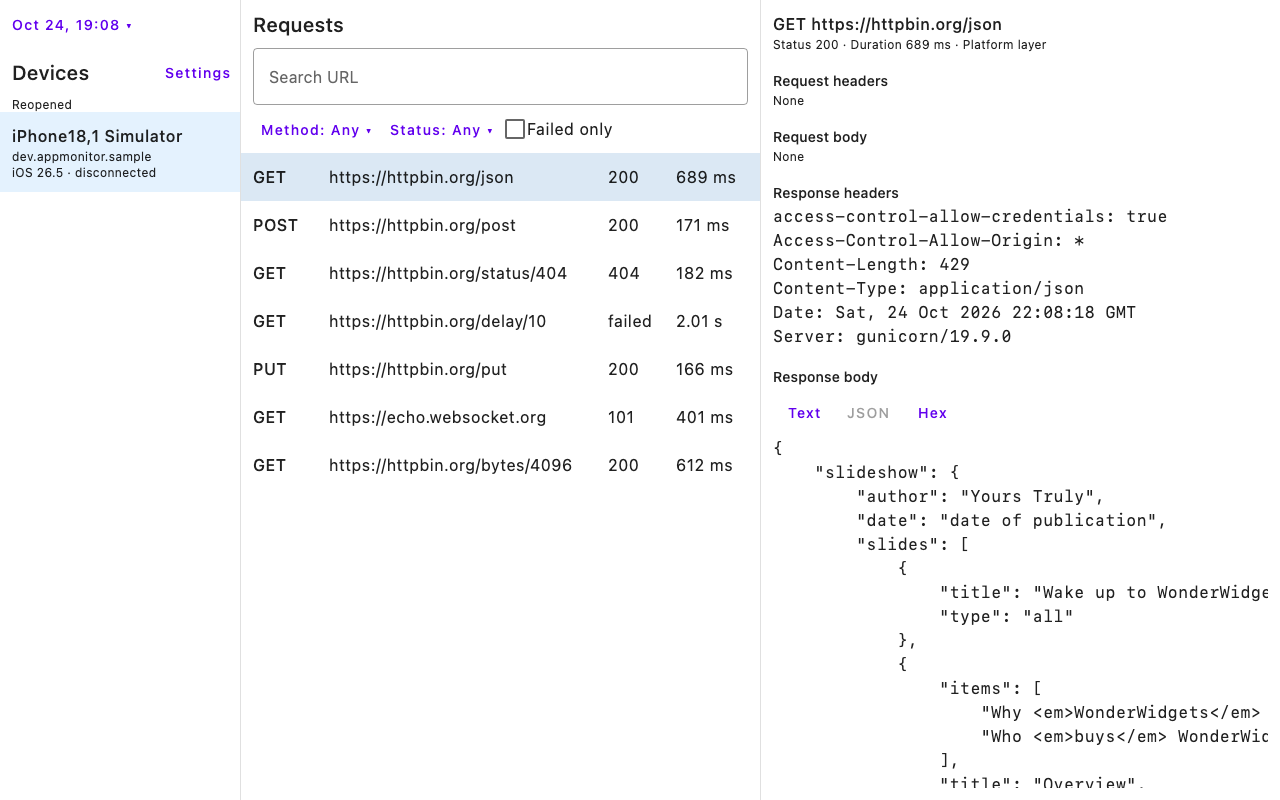
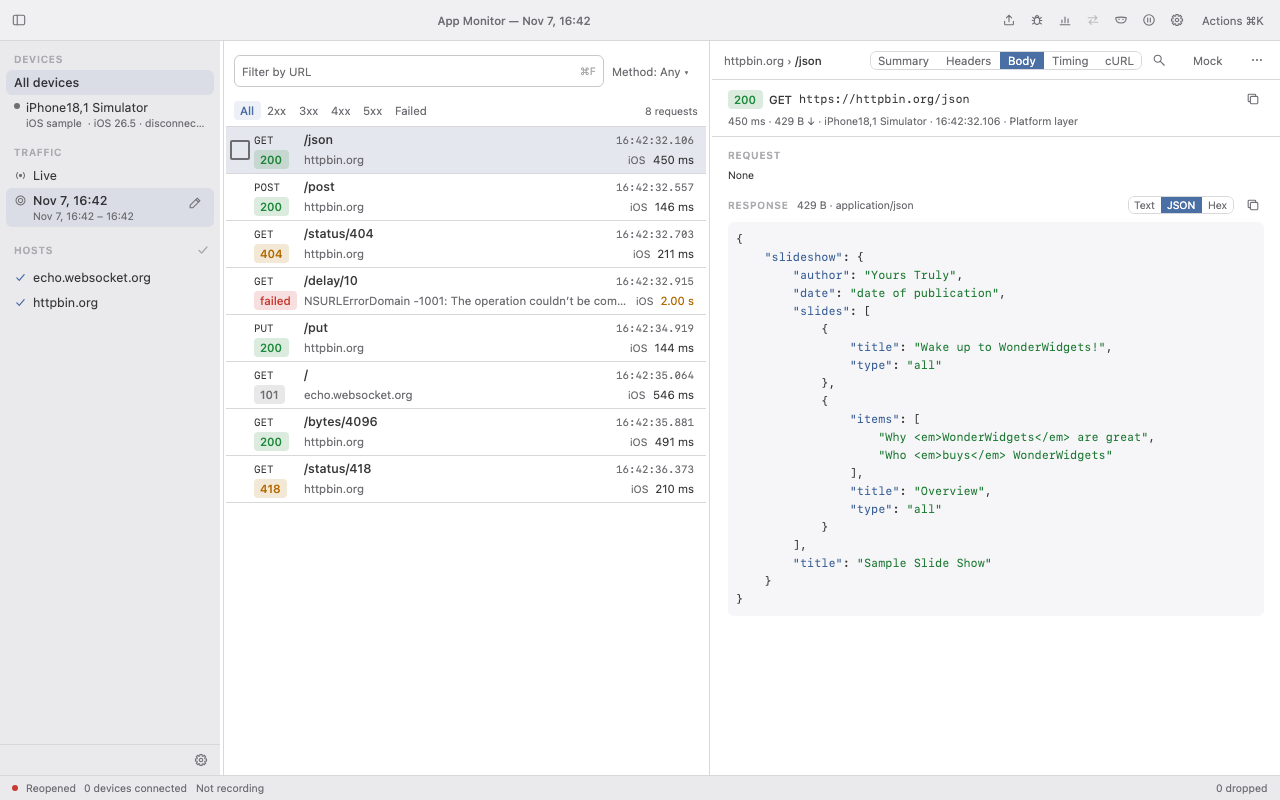
test: live screenshots pick their rows in the request list (#403)
The sidebar lists hosts and runs (ADR-0205), so the first node with a host's text was the sidebar's host, and a click hid it. Rows are now picked inside the request list, the recording by its run tag. Screenshots regenerated from the iOS sample on a simulator; the README shows them; H8.6 closes.

diff --git a/desktop/app/src/test/kotlin/appmonitor/desktop/app/LiveDeviceScreenshots.kt b/desktop/app/src/test/kotlin/appmonitor/desktop/app/LiveDeviceScreenshots.kt
@@ -4,9 +4,14 @@ import androidx.compose.runtime.collectAsState
 import androidx.compose.runtime.getValue
 import androidx.compose.runtime.remember
 import androidx.compose.ui.graphics.toAwtImage
+import androidx.compose.ui.semantics.SemanticsProperties
 import androidx.compose.ui.test.ComposeUiTest
 import androidx.compose.ui.test.ExperimentalTestApi
+import androidx.compose.ui.test.SemanticsMatcher
 import androidx.compose.ui.test.captureToImage
+import androidx.compose.ui.test.hasAnyAncestor
+import androidx.compose.ui.test.hasTestTag
+import androidx.compose.ui.test.hasText
 import androidx.compose.ui.test.onAllNodesWithText
 import androidx.compose.ui.test.onFirst
 import androidx.compose.ui.test.onNodeWithTag
@@ -18,6 +23,8 @@ import appmonitor.desktop.app.store.ApprovalStore
 import appmonitor.desktop.app.store.TrafficStore
 import appmonitor.desktop.app.ui.AppMonitorApp
 import appmonitor.desktop.feature.traffic.RECORD
+import appmonitor.desktop.feature.traffic.REQUEST_LIST
+import appmonitor.desktop.feature.traffic.RUN
 import appmonitor.desktop.server.AppMonitorServer
 import appmonitor.desktop.server.ServerConfig
 import appmonitor.desktop.storage.ExchangeFilter
@@ -106,9 +113,9 @@ class LiveDeviceScreenshots {
             runDesktopComposeUiTest(width = 1280, height = 800) {
                 setContent { AppMonitorApp(storage, "Reopened", appearance = TestAppearance) }
                 println("liveScreenshots: store reopened, opening the recording")
-                onAllNodesWithText(" – ", substring = true).onFirst().performClick()
+                onAllNodes(tagStartsWith(RUN)).onFirst().performClick()
                 waitFor("/json")
-                onAllNodesWithText("/json", substring = true).onFirst().performClick()
+                inList("/json").performClick()
                 waitFor("\"slideshow\"")
                 screenshot("$name-reopen.png")
             }
@@ -118,13 +125,23 @@ class LiveDeviceScreenshots {
     }
 
     private fun ComposeUiTest.showJsonAndFrames() {
-        onAllNodesWithText("/json", substring = true).onFirst().performClick()
+        inList("/json").performClick()
         waitFor("\"slideshow\"")
         screenshot("$name-traffic.png")
-        onAllNodesWithText("echo.websocket.org", substring = true).onFirst().performClick()
+        inList("echo.websocket.org").performClick()
         waitFor("WebSocket frames")
         screenshot("$name-frames.png")
     }
+
+    // The sidebar lists hosts and runs too (ADR-0205): a row is picked inside the request list.
+    private fun ComposeUiTest.inList(text: String) =
+        onAllNodes(hasText(text, substring = true) and hasAnyAncestor(hasTestTag(REQUEST_LIST))).onFirst()
+
+    private fun tagStartsWith(prefix: String) =
+        SemanticsMatcher("testTag starts with $prefix") {
+            SemanticsProperties.TestTag in it.config &&
+                it.config[SemanticsProperties.TestTag].startsWith(prefix)
+        }
 
     private fun ComposeUiTest.waitFor(text: String) =
         waitUntil(timeoutMillis = timeoutMs) { onAllNodesWithText(text, substring = true).fetchSemanticsNodes().isNotEmpty() }

diff --git a/docs/plans/0018-dense-traffic-window.md b/docs/plans/0018-dense-traffic-window.md
@@ -218,7 +218,8 @@ updates the SDD it changes in its own PR (ADR-0094). The `Hold` before M10 stays
   Accept: `./gradlew :desktop:app:test`, with a test that the macOS properties are set only on
   macOS; `make check`. The loop cannot read a real window (DEBT-0124): the bar, its drag and
   its double click are for the owner's look in H8.6.
-- [!] **H8.6 The window in use.** The owner's task, run with the owner and not by `/next`.
+- [x] **H8.6 The window in use.** (`test/live-screenshots-after-the-sidebar`; the owner's third look,
+  2026-11-07: "ficou melhor". Simulator screenshots only: the emulator was closed.) The owner's task, run with the owner and not by `/next`.
   The owner's first look (2026-11-07) became H8.7 to H8.11, the second H8.12 and H8.13; this
   task closes after them, with the owner's next look.
   `./gradlew :desktop:app:liveScreenshots` from the field test app or the samples, on a

diff --git a/README.md b/README.md
@@ -72,7 +72,7 @@ flowchart LR
    message inside a channel envelope — the same transport will carry logs,
    analytics and storage inspection later.
 
-![The desktop showing a physical Android device's traffic](docs/screenshots/device-traffic.png)
+![The desktop showing the iOS sample's traffic on a simulator](docs/screenshots/simulator-traffic.png)
 
 Design details: [architecture](docs/sdd/01_architecture.md) and the
 [decision records](docs/adr/README.md).
